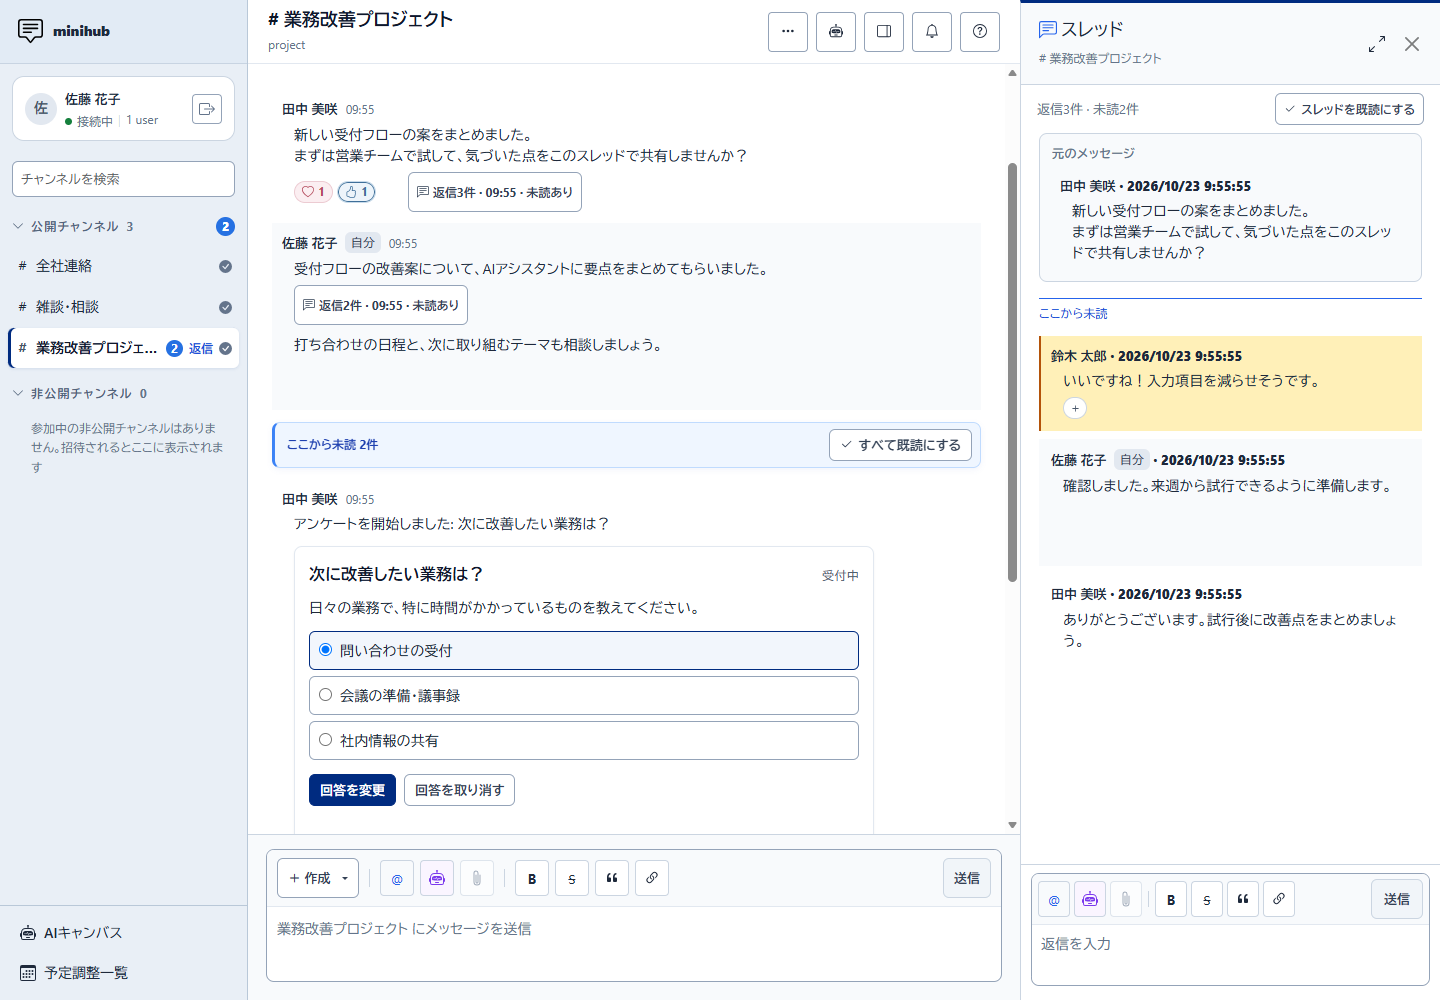
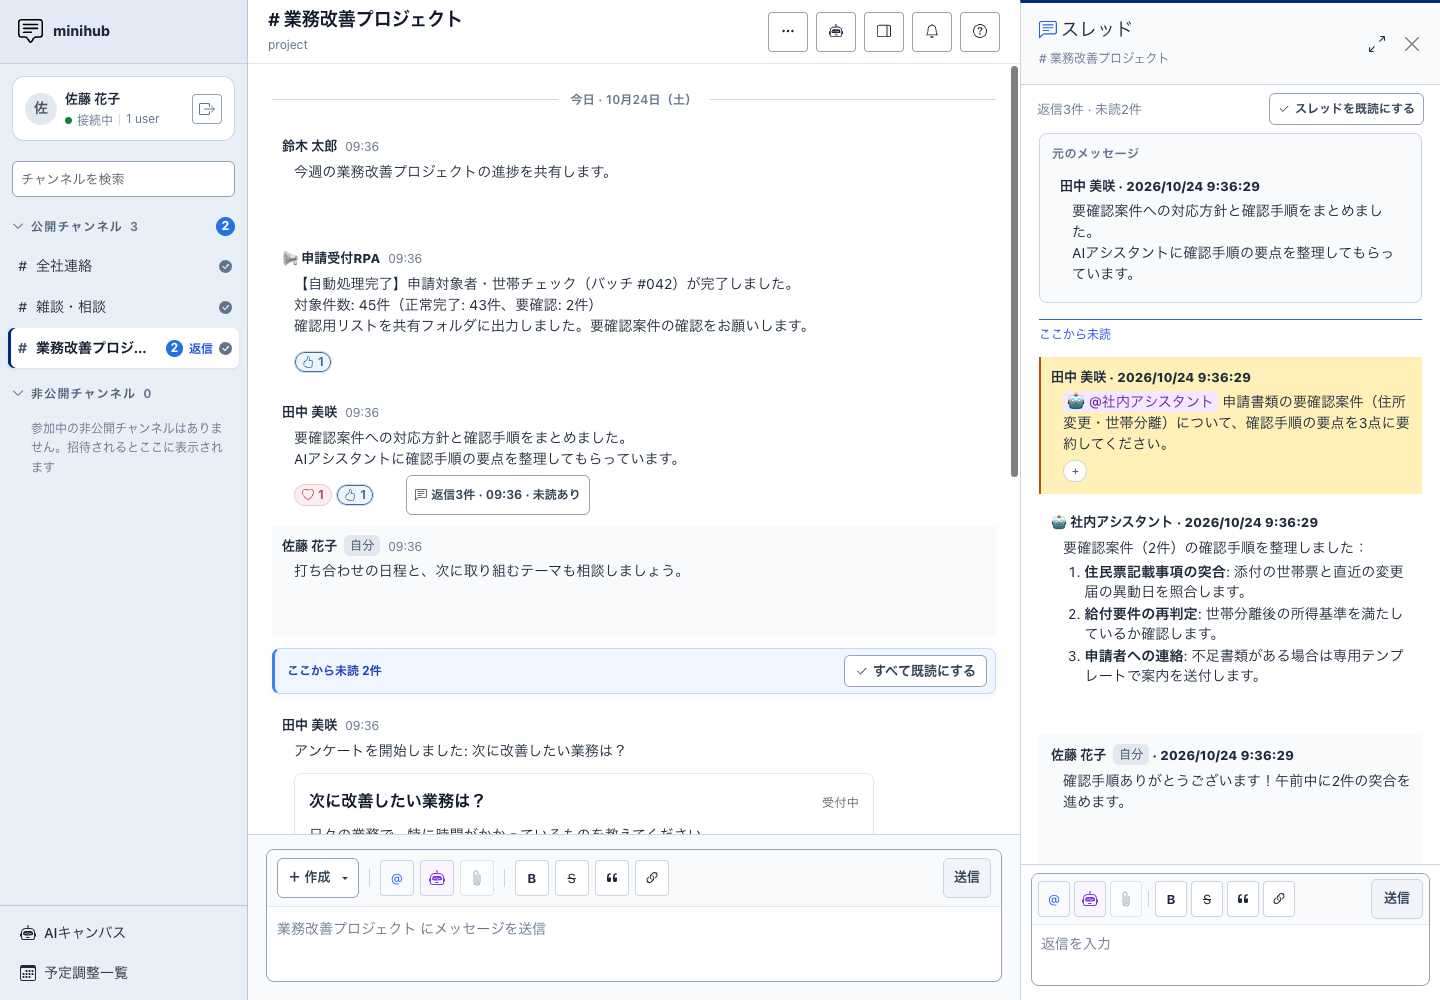
feat: README update

diff --git a/tests/README.md b/tests/README.md
@@ -47,7 +47,7 @@ go build -o /tmp/minihub-readme ./cmd/minihub
 BROWSER_PATH=/usr/bin/chromium node scripts/capture-readme.mjs /tmp/minihub-readme
 ```
 
-ブラウザの既定値はWindowsでMicrosoft Edge、macOSでGoogle Chrome、Linuxで`chromium`です。専用の一時データとローカルサーバーで架空の会話・スレッドAI連携・アンケート・AIキャンバス・予定調整を作成し、一般ユーザーの実画面を日本語・日本時間、1440×1000、倍率1で撮影します。予定の候補日は撮影日の翌週に生成します。既存の設定・データは使用しません。
+ブラウザの既定値はWindowsでMicrosoft Edge、macOSでGoogle Chrome、Linuxで`chromium`です。専用の一時データとローカルサーバーで架空の会話・RPA連携・スレッドAI連携・アンケート・AIキャンバス・予定調整を作成し、一般ユーザーの実画面を日本語・日本時間、1440×1000、倍率1で撮影します。予定の候補日は撮影日の翌週に生成します。既存の設定・データは使用しません。
 
 予定調整は集計表が見切れないようページ全体を撮影します。全画面の撮影がすべて成功すると `docs/images/chat.png`、`ai.png`、`poll.png`、`ai-canvas.png`（`canvas.png`）、`schedule.png` を更新します。撮影に失敗した場合は掲載画像を更新せず、起動したサーバー・ブラウザと一時データを片付けます。
 

diff --git a/README.md b/README.md
@@ -28,9 +28,9 @@ flowchart TB
     ROUTER --- DB
 ```
 
-[![チャンネル一覧、リアクションとスレッド返信を表示したminihubの画面](docs/images/chat.png)](docs/images/chat.png)
+[![チーム対話・外部システム通知・AI協調を1つの場所に集約したMiniHubの画面](docs/images/chat.png)](docs/images/chat.png)
 
-チャンネルで情報を共有し、話題ごとのスレッドで相談できます。リアクションで了解・完了・確認中・感謝を伝えられます。
+チーム内の対話、外部システム（RPAや監視ツール等）からの自動通知（Incoming Webhook）、そしてAIアシスタントとの協調を1つの場所に集約できます。話題ごとのスレッドで深掘りし、リアクションで素早く意思疎通できます。
 
 掲載画像は架空のデータを使用した表示例です。画像をクリックすると原寸を確認できます。
 
